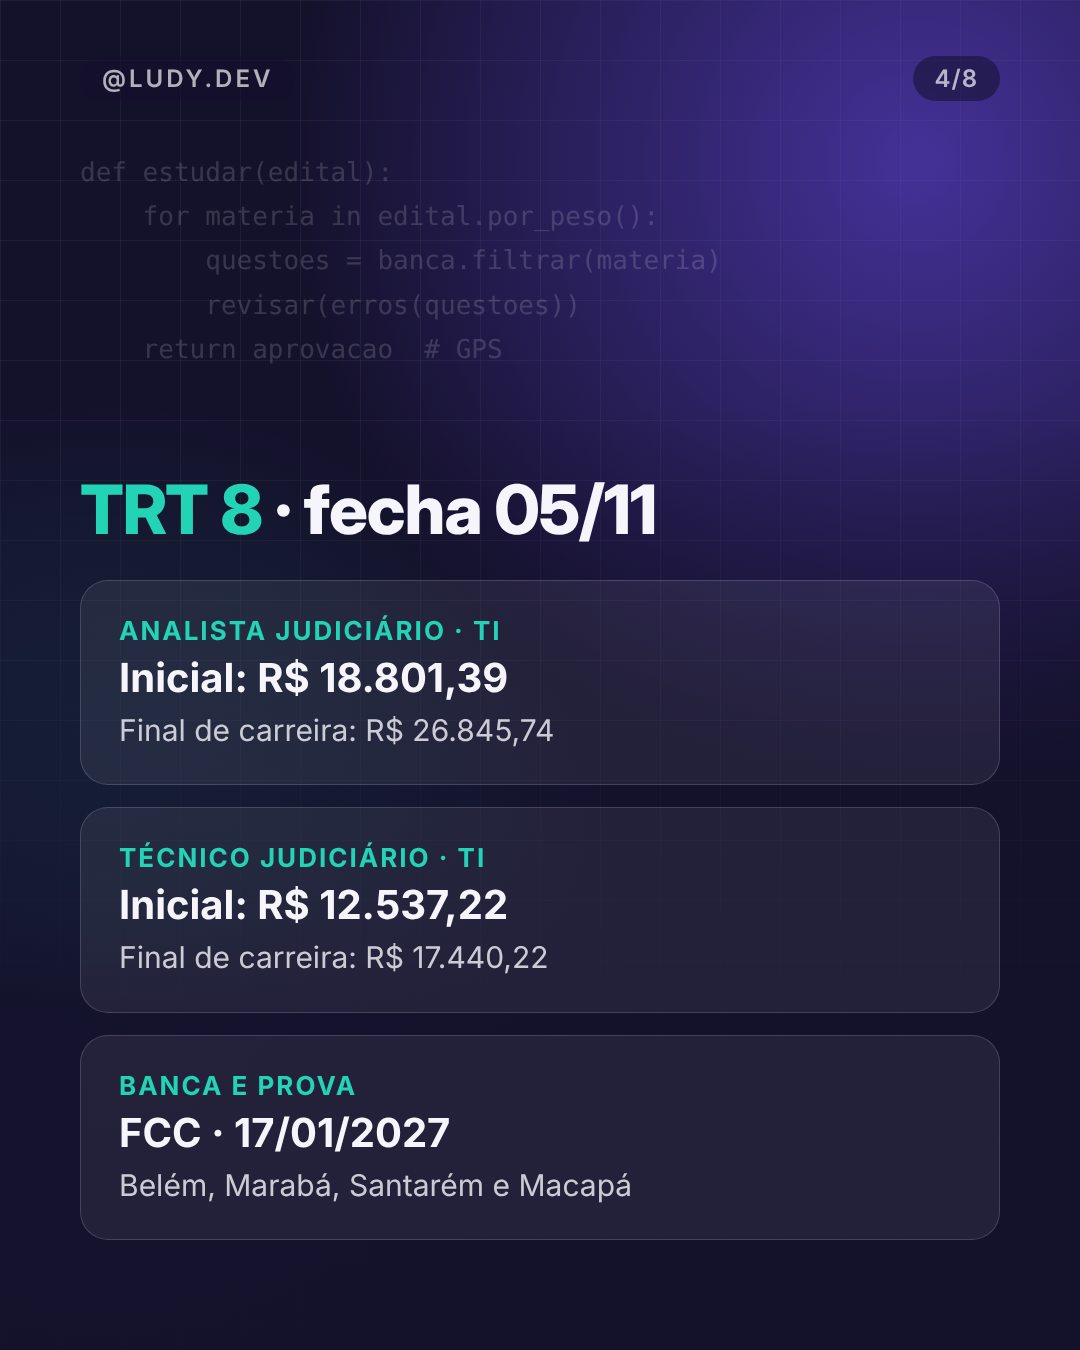
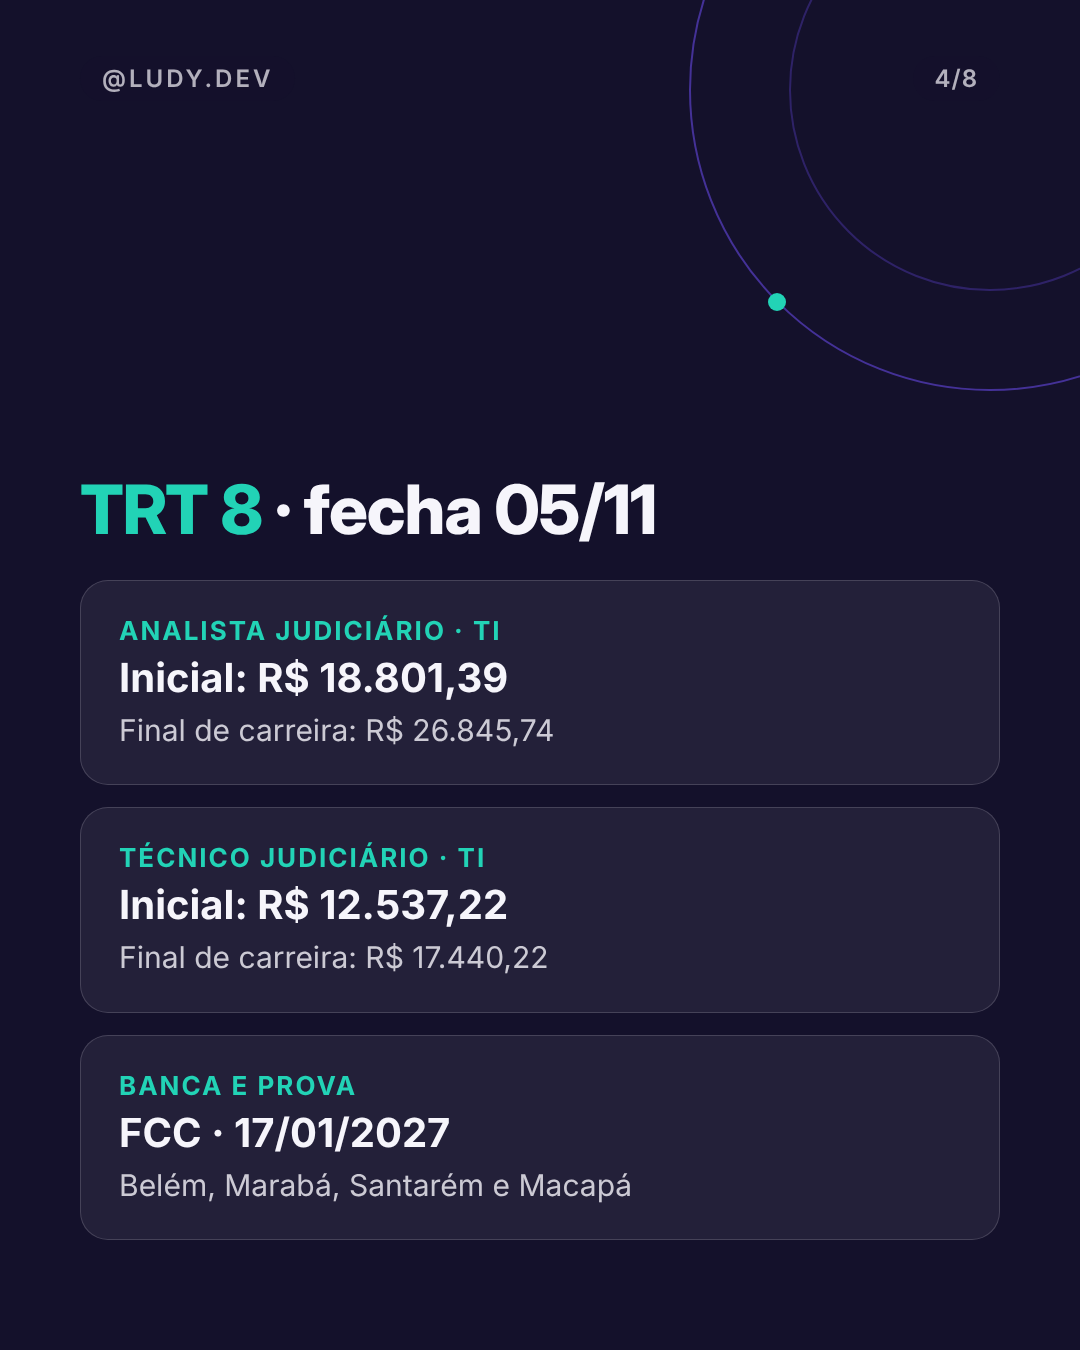
Post 21/10 13h (inscrições abertas): fundo minimalista
Claude-Session: https://claude.ai/code/session_016ydKq3ZBWwCP8BaeCJ9gie

diff --git a/_ferramentas/plano_10k.py b/_ferramentas/plano_10k.py
@@ -14,14 +14,14 @@ POSTS = {}
 # 1 — 21/10 18h · panorama inscrições abertas
 T = 8
 POSTS["21-18h"] = [
- page_a(badge() + '<h1><span class="c">5 concursos</span> de TI com inscrições abertas <span class="v">agora</span></h1><div class="sub">Do prazo mais curto ao mais longo. Arrasta →</div>', 1, T, photo="fotos/coding-noite-unsplash.jpg"),
- page_a('<h2><span class="c">SEFAZ SP</span> · fecha 03/11</h2>' + card("Cargo", "APOFP · Ciência de Dados e TI", "20 vagas · qualquer graduação") + card("Remuneração", "Inicial: R$ 11.359,50", "Final de carreira: R$ 18 mil a R$ 20 mil") + card("Banca e prova", "FCC · 13/12/2026", "Em São Paulo (SP)"), 2, T),
- page_a('<h2><span class="c">CGU</span> · fecha 04/11</h2>' + card("Cargo", "Auditor Federal de Finanças e Controle · TI", "30 vagas · qualquer graduação") + card("Remuneração", "Inicial: R$ 20.000,00", "Final de carreira: R$ 36.694,00") + card("Banca e prova", "Cebraspe · 13/12/2026", "Nas 27 capitais"), 3, T),
- page_a('<h2><span class="c">TRT 8</span> · fecha 05/11</h2>' + card("Analista Judiciário · TI", "Inicial: R$ 18.801,39", "Final de carreira: R$ 26.845,74") + card("Técnico Judiciário · TI", "Inicial: R$ 12.537,22", "Final de carreira: R$ 17.440,22") + card("Banca e prova", "FCC · 17/01/2027", "Belém, Marabá, Santarém e Macapá"), 4, T),
- page_a('<h2><span class="c">TCE-GO</span> · fecha 06/11</h2>' + card("Cargo", "Técnico de Controle Externo · TI", "10 vagas · nível médio") + card("Remuneração", "Inicial: R$ 11.862,19", "Final de carreira: ainda não divulgado") + card("Banca e prova", "FCC · 17/01/2027", "Em Goiânia (GO)"), 5, T),
- page_a('<h2><span class="c">TJ-PB</span> · fecha 18/11</h2>' + card("Cargo", "Analista Judiciário · TI", "20 vagas") + card("Remuneração", "Inicial: R$ 11.526,14", "Final de carreira: R$ 19.212,35") + card("Banca e prova", "FGV · 24/01/2027", "Na Paraíba"), 6, T),
- page_a('<h2>Dá pra fazer <span class="v">mais de um</span>?</h2><p>Sim. CGU e SEFAZ SP caem no <b>mesmo dia (13/12)</b>, então ali é escolher um. Já TRT 8, TCE-GO e TJ-PB ficam em janeiro.</p><p class="sub">Escolha pelo conteúdo que você já domina, não só pelo salário.</p>', 7, T),
- page_a('<h2>Salva pra não perder os <span class="c">prazos</span>.</h2><p>E manda pra aquele amigo de TI que vive dizendo que um dia vai estudar pra concurso.</p>' + seguir(), 8, T),
+ page_a(badge() + '<h1><span class="c">5 concursos</span> de TI com inscrições abertas <span class="v">agora</span></h1><div class="sub">Do prazo mais curto ao mais longo. Arrasta →</div>', 1, T, minimal=True),
+ page_a('<h2><span class="c">SEFAZ SP</span> · fecha 03/11</h2>' + card("Cargo", "APOFP · Ciência de Dados e TI", "20 vagas · qualquer graduação") + card("Remuneração", "Inicial: R$ 11.359,50", "Final de carreira: R$ 18 mil a R$ 20 mil") + card("Banca e prova", "FCC · 13/12/2026", "Em São Paulo (SP)"), 2, T, minimal=True),
+ page_a('<h2><span class="c">CGU</span> · fecha 04/11</h2>' + card("Cargo", "Auditor Federal de Finanças e Controle · TI", "30 vagas · qualquer graduação") + card("Remuneração", "Inicial: R$ 20.000,00", "Final de carreira: R$ 36.694,00") + card("Banca e prova", "Cebraspe · 13/12/2026", "Nas 27 capitais"), 3, T, minimal=True),
+ page_a('<h2><span class="c">TRT 8</span> · fecha 05/11</h2>' + card("Analista Judiciário · TI", "Inicial: R$ 18.801,39", "Final de carreira: R$ 26.845,74") + card("Técnico Judiciário · TI", "Inicial: R$ 12.537,22", "Final de carreira: R$ 17.440,22") + card("Banca e prova", "FCC · 17/01/2027", "Belém, Marabá, Santarém e Macapá"), 4, T, minimal=True),
+ page_a('<h2><span class="c">TCE-GO</span> · fecha 06/11</h2>' + card("Cargo", "Técnico de Controle Externo · TI", "10 vagas · nível médio") + card("Remuneração", "Inicial: R$ 11.862,19", "Final de carreira: ainda não divulgado") + card("Banca e prova", "FCC · 17/01/2027", "Em Goiânia (GO)"), 5, T, minimal=True),
+ page_a('<h2><span class="c">TJ-PB</span> · fecha 18/11</h2>' + card("Cargo", "Analista Judiciário · TI", "20 vagas") + card("Remuneração", "Inicial: R$ 11.526,14", "Final de carreira: R$ 19.212,35") + card("Banca e prova", "FGV · 24/01/2027", "Na Paraíba"), 6, T, minimal=True),
+ page_a('<h2>Dá pra fazer <span class="v">mais de um</span>?</h2><p>Sim. CGU e SEFAZ SP caem no <b>mesmo dia (13/12)</b>, então ali é escolher um. Já TRT 8, TCE-GO e TJ-PB ficam em janeiro.</p><p class="sub">Escolha pelo conteúdo que você já domina, não só pelo salário.</p>', 7, T, minimal=True),
+ page_a('<h2>Salva pra não perder os <span class="c">prazos</span>.</h2><p>E manda pra aquele amigo de TI que vive dizendo que um dia vai estudar pra concurso.</p>' + seguir(), 8, T, minimal=True),
 ]
 
 # 2 — 22/10 10h · B: o que do seu dia a dia já cai na CGU

diff --git a/_ferramentas/render.py b/_ferramentas/render.py
@@ -58,11 +58,20 @@ def _photo_layer(photo):
             'rgba(20,17,43,.55) 40%,rgba(20,17,43,.97) 72%)"></div>')
 
 
-def page_a(inner, idx=None, total=None, src="", photo=None, top_photo=None, top_h=470):
+MINIMAL_BG = ('<div style="position:absolute;inset:0;background:#14112B"></div>'
+  '<svg style="position:absolute;top:0;right:0" width="560" height="560" viewBox="0 0 560 560" fill="none">'
+  '<circle cx="470" cy="90" r="300" stroke="#6C4CF1" stroke-opacity=".55" stroke-width="2"/>'
+  '<circle cx="470" cy="90" r="200" stroke="#6C4CF1" stroke-opacity=".3" stroke-width="2"/>'
+  '<circle cx="257" cy="302" r="9" fill="#22D3B6"/></svg>')
+
+
+def page_a(inner, idx=None, total=None, src="", photo=None, top_photo=None, top_h=470, minimal=False):
     """Estilo A. photo=caminho: foto como fundo inteiro (capas). top_photo=caminho: foto no topo do slide
     (ex.: prédio do órgão), com o conteúdo embaixo. Sem nenhum dos dois: fundo tech."""
     pill = f'<span class="pill">{idx}/{total}</span>' if total else '<span></span>'
-    if photo:
+    if minimal:
+        bg = MINIMAL_BG
+    elif photo:
         bg = _photo_layer(photo)
     elif top_photo:
         ext = "png" if top_photo.lower().endswith(".png") else "jpeg"
